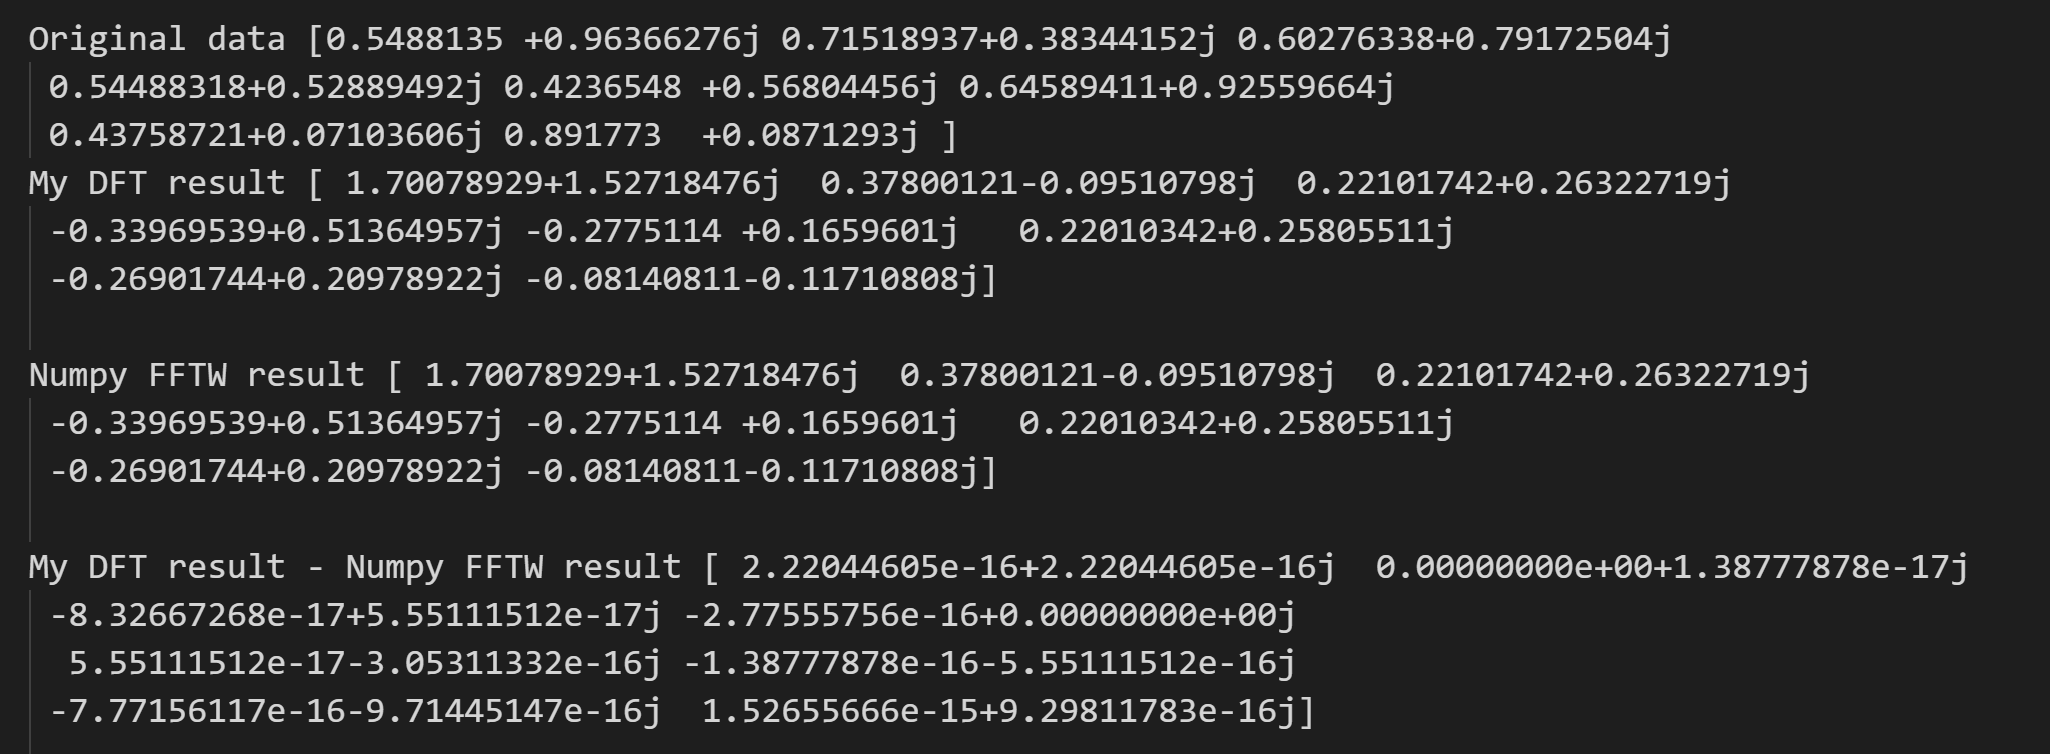
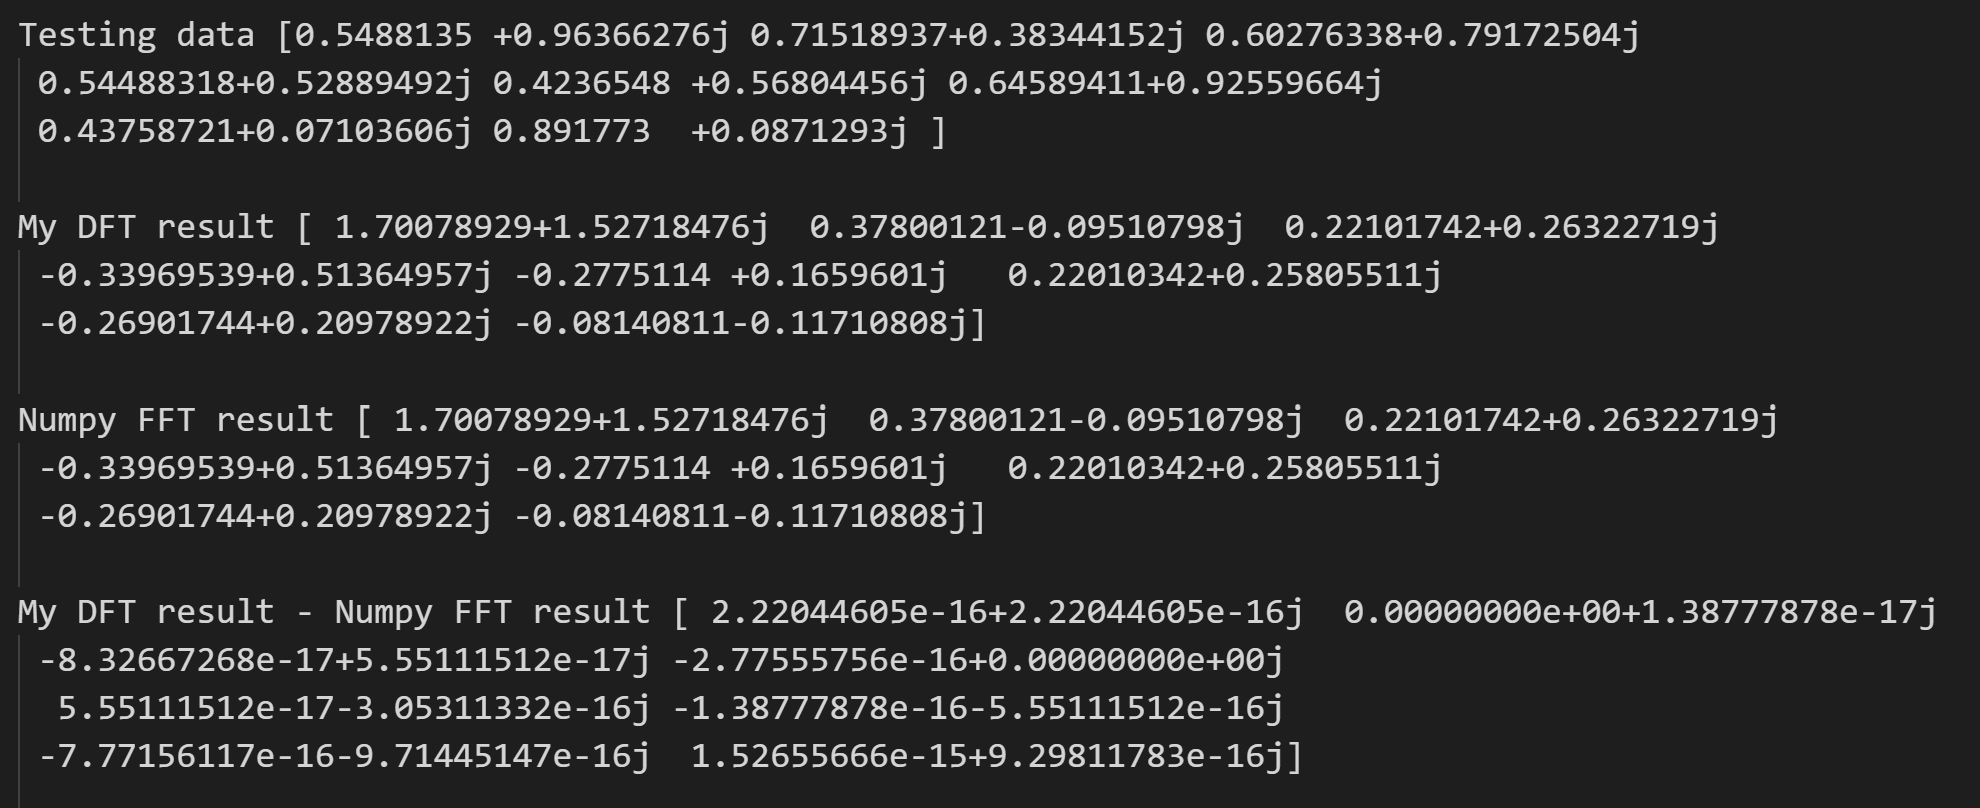
a 1 finished

Changed region(s): [[0.0, 0.0305, 0.8626, 0.4271], [0.0, 0.7321, 0.9859, 0.9761], [0.0, 0.4576, 0.8934, 0.6711]]

diff --git a/code/A_dft.py b/code/A_dft.py
@@ -23,11 +23,11 @@ x = x.astype(np.complex128)
 my_dft_result = my_dft(x)
 FFTW_result = np.fft.fft(x,norm='ortho')
 
-print("\nOriginal data",x)
-print("My DFT result",my_dft_result)
-print("\nNumpy FFTW result",FFTW_result)
+print("\nTesting data",x)
+print("\nMy DFT result",my_dft_result)
+print("\nNumpy FFT result",FFTW_result)
 
-print("\nMy DFT result - Numpy FFTW result",my_dft_result-FFTW_result)
+print("\nMy DFT result - Numpy FFT result",my_dft_result-FFTW_result)
 
 
 

diff --git a/README.md b/README.md
@@ -2,16 +2,16 @@
 ## A.DFT和FFT
 ### 1.编写一个DFT程序并验证
 
-如下所示，编写my_dft函数，实现对输入的数组进行DFT计算，并返回结果。
+如下所示，编写`my_dft`函数，实现对输入的数组进行DFT计算，并返回结果。
 ````python
 def my_dft(x_array)->np.ndarray:
     N = len(x_array)
     n = np.arange(N)
     k = n.reshape((N,1))
-    M = np.exp(-2j * np.pi * k * n / N)/N**0.5  #np.exp(np.array) 会对数组中的每个元素应用指数函数 exp
+    M = np.exp(-2j * np.pi * k * n / N)/N**0.5  
     return np.dot(M,x_array)
 ````
-使用一个八维的随机复向量作为测试，测试数据、my_dft、使用的包函数给出的结果以及二者差值如下：
+使用一个八维的随机复向量作为测试，并且使用`np.fft`作为标准包函数，测试数据、`my_dft`、`np.fft`给出的结果以及二者差值如下：
 
 ![](figure/A_1.png)
 
